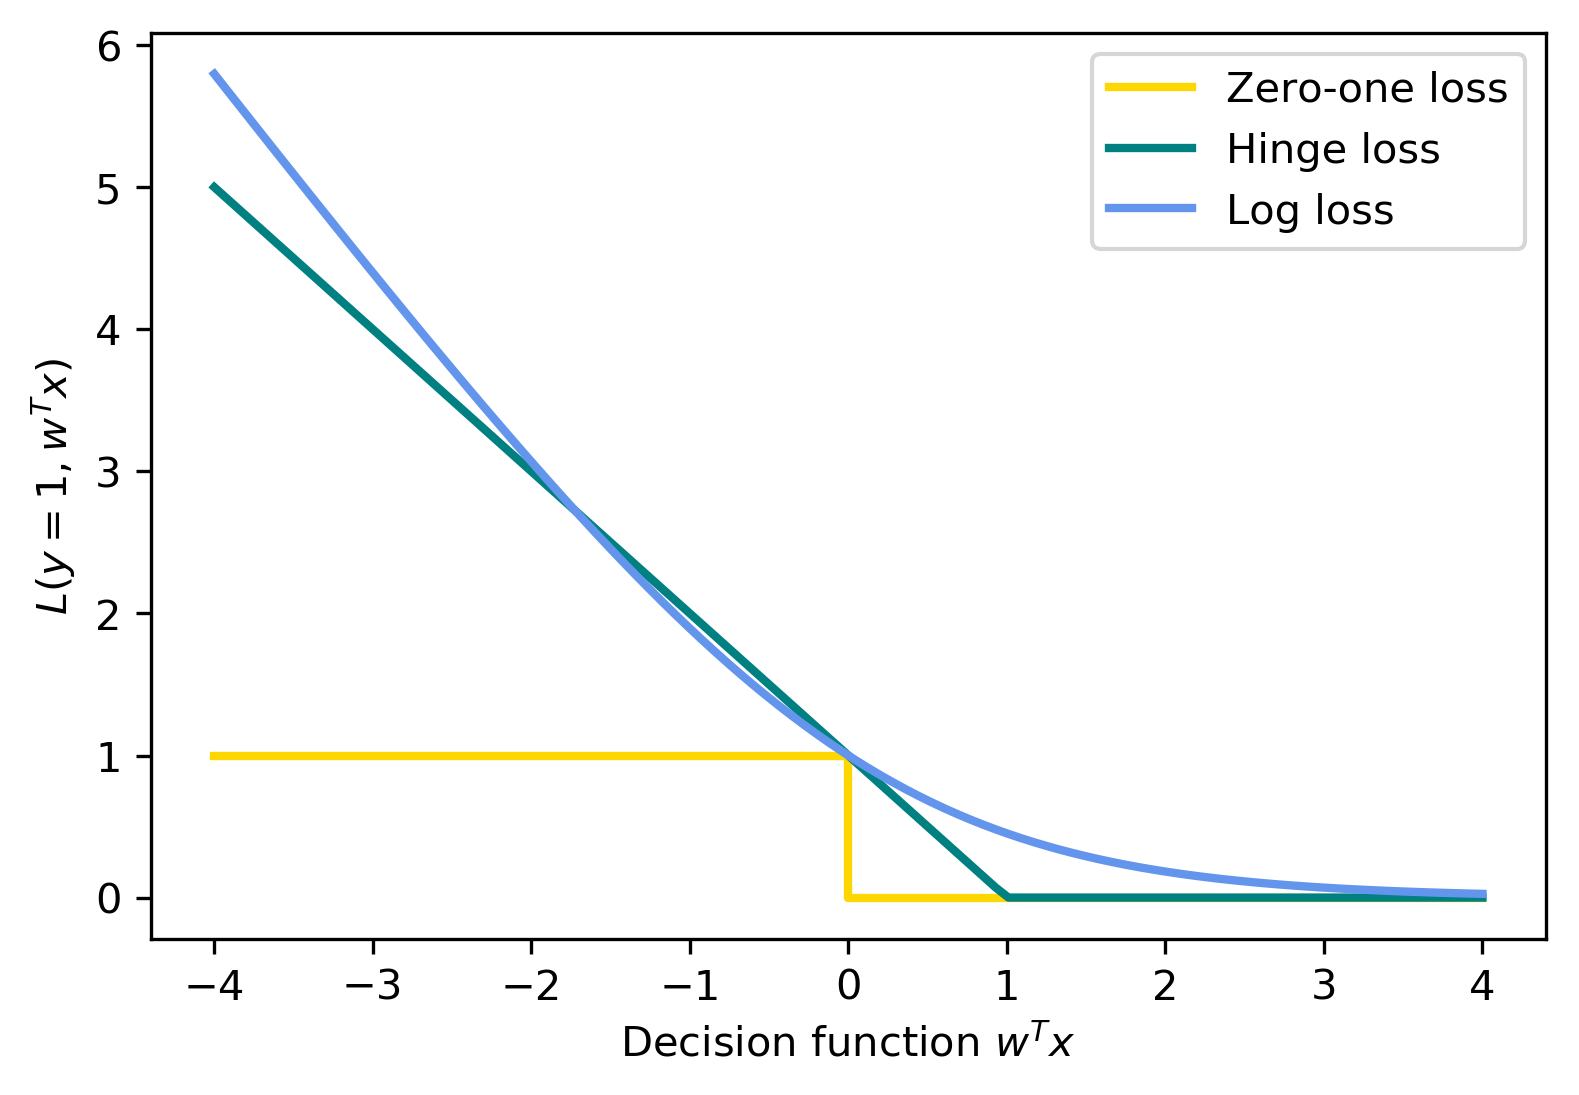
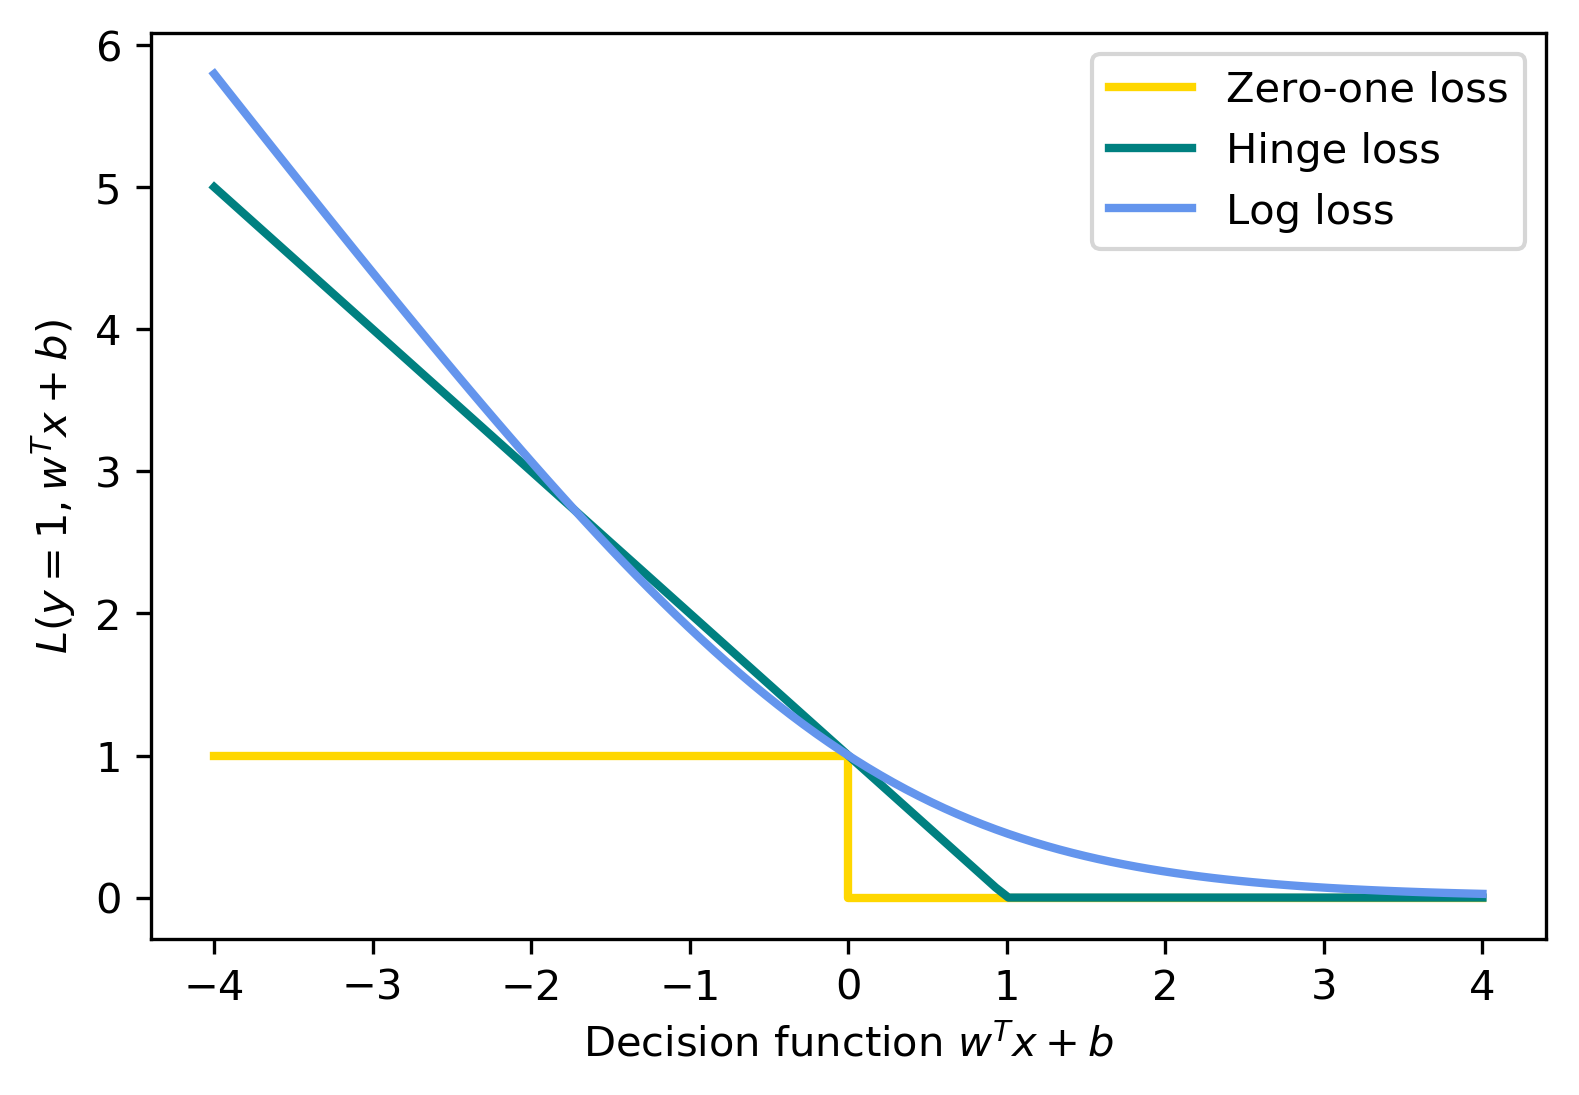
remove unused slides, fix binary loss plot formula, ovr formula

Changed region(s): [[0.3724, 0.9315, 0.7137, 0.9626], [0.0, 0.3105, 0.0621, 0.59]]

diff --git a/slides/03-linear-models-regression.html b/slides/03-linear-models-regression.html
@@ -272,35 +272,6 @@ regression and Ridge regression. Here is ridge regression
 uses a default value of alpha of 1. Here these two scores
 are quite similar.
 
----
-# Coefficient of determination R^2
-
-`$$ R^2(y, \hat{y}) = 1 - \frac{\sum_{i=0}^{n - 1} (y_i - \hat{y}_i)^2}{\sum_{i=0}^{n - 1} (y_i - \bar{y})^2} $$`
-
-`$$ \bar{y} =  \frac{1}{n} \sum_{i=0}^{n - 1} y_i$$`
-
-Can be negative for biased estimators - or the test set!
-
-???
-The scores are R squared or coefficient of determination.
-This is basically a score that's usually between zero and
-one, where one means perfect prediction or perfect
-correlation and zero means a random prediction. What it does
-is it computes the mean of the targets over the data you're
-evaluating it on and then it looks at the distance between
-the prediction and the ground truth relative to the mean. If
-it's negative, it means you do a worse job at predicting and
-just predicting the mean. It can happen if your model was
-really bad and bias. The other reason is if you use a test
-set. This is guaranteed to be positive on the data it was
-fit on with an unbiased linear model, which will nearly
-never apply to what we’re doing.
-
-The R^2 can be misleading if there's outliers in the training
-data and some consider it a bad metric. Max Kuhn, author of APM
-thinks it's a bad metric. It's not clear to me that MSE is much
-better in general, though. Reducing anything to a single number
-is tricky.
 
 ---
 
@@ -524,22 +495,6 @@ There are some very big coefficients that go to zero very
 quickly and some coefficients here that stay the same for a
 long time.
 
----
-# Learning Curves
-
-![:scale 90%](images/ridge_learning_curve.png)
-
-???
-The thing I want to illustrate is if you have less data,
-regularization helps more. You can see the effects here
-between the orange and the red are very drastic. The green
-one probably has too much regularization. If you have very
-little data, even regularizing way too much is okay, but
-there's sort of a sweet spot here which is the orange one
-and the orange one does best. The more data you add, the
-less important regularization becomes. If you take the blue
-curve at the beginning it’s much higher than the red curve,
-but then, in the end, they overlap.
 
 ---
 # Lasso Regression

diff --git a/slides/04-linear-models-classification.html b/slides/04-linear-models-classification.html
@@ -428,29 +428,6 @@ theoretically sound way.
 class: center
 
 # Reduction to Binary Classification
-.padding-top[
-.left-column[
-## One vs Rest
-]
-
-.right-column[
-## One vs One
-]
-]
-???
-The slightly hacky way is using what's known as a reduction.
-We're doing a reduction like in math: reducing one problem
-to another. In this case we're reducing the problem of
-multi-class classification into several instances of the
-binary classification problem. And we already know how to
-deal with binary classification.
-
-There are two straight-forward ways to reduce multi-class to
-binary classification. the first is called one vs rest, the
-second one is called one-vs-one.
-
----
-class: spacious
 
 # One Vs Rest
 
@@ -482,7 +459,7 @@ class: spacious
 
 "Class with highest score"
 
-$$\hat{y} = \text{arg}\max_{i \in Y} \textbf{w}_i\textbf{x} + b_i$$
+$$\hat{y} = \text{arg}\max_{i \in Y} \textbf{w}^T_i\textbf{x} + b_i$$
 
 
 ???
